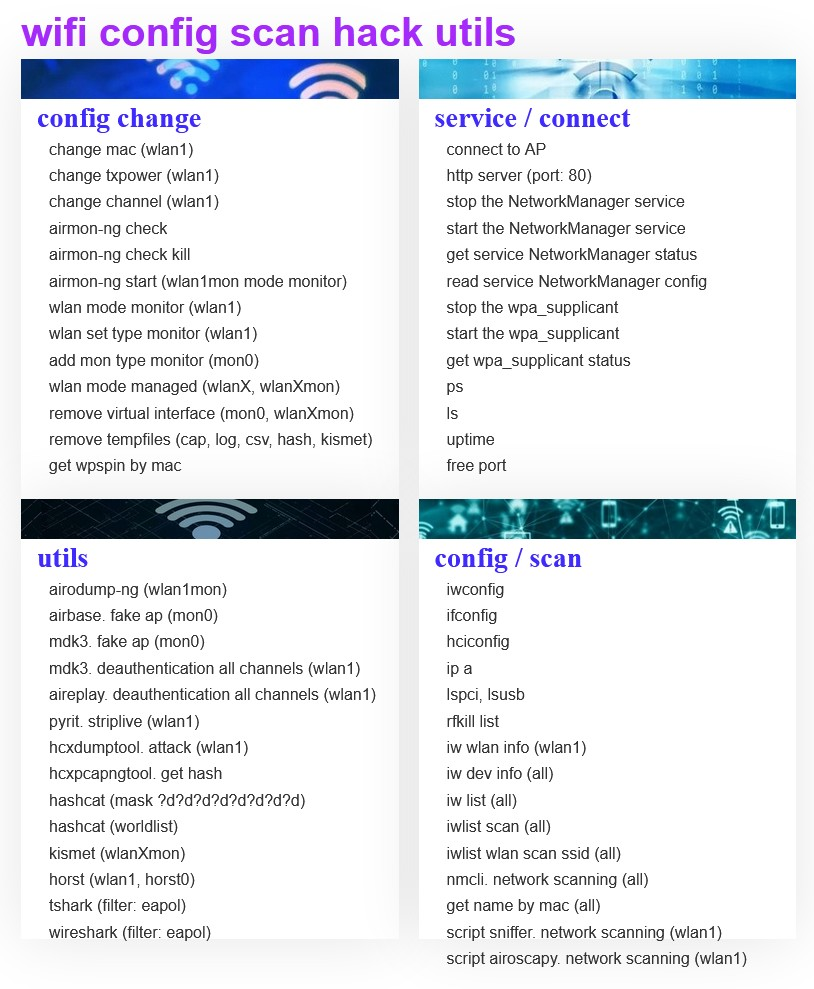
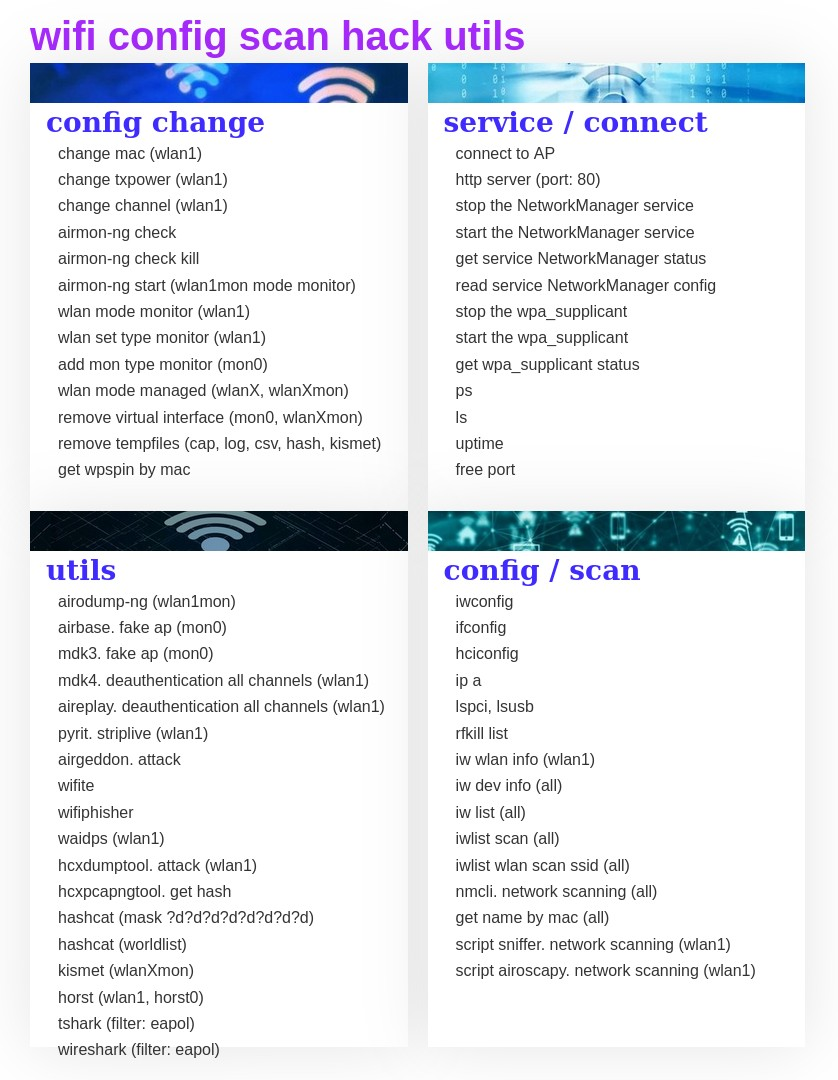
added utils

Changed region(s): [[0.0, 0.0, 0.9828, 1.0]]

diff --git a/template/index.html b/template/index.html
@@ -127,13 +127,25 @@
             <a href="/mdk3_fake_ap" target="_blank">mdk3. fake ap (mon0)</a>
           </li>
           <li class="items-list">
-            <a href="/mdk3_deauthentication_all_channel" target="_blank">mdk3. deauthentication all channels (wlan1)</a>
+            <a href="/mdk4_deauthentication_all_channel" target="_blank">mdk4. deauthentication all channels (wlan1)</a>
           </li>
           <li class="items-list">
             <a href="/aireplay_deauthentication_all_channel" target="_blank">aireplay. deauthentication all channels (wlan1)</a>
           </li>
           <li class="items-list">
             <a href="/pyrit_striplive" target="_blank">pyrit. striplive (wlan1)</a>
+          </li>
+          <li class="items-list">
+            <a href="/airgeddon_attack" target="_blank">airgeddon. attack</a>
+          </li>
+          <li class="items-list">
+            <a href="/wifite-reaver" target="_blank">wifite</a>
+          </li>
+          <li class="items-list">
+            <a href="/wifiphisher" target="_blank">wifiphisher</a>
+          </li>
+          <li class="items-list">
+            <a href="/waidps" target="_blank">waidps (wlan1)</a>
           </li>
           <li class="items-list">
             <a href="/hcxdumptool_attack" target="_blank">hcxdumptool. attack (wlan1)</a>

diff --git a/template/css/style.css b/template/css/style.css
@@ -161,7 +161,7 @@ li:last-child {
   vertical-align: top;
   margin-right: 25px;
   width: 472px;
-  height: 550px;
+  height: 560px;
   filter: drop-shadow(0px 0px 40px rgba(0, 0, 0, 0.1));
   background-color: #fff;
   background-position: top;
@@ -176,7 +176,7 @@ li:last-child {
   display: inline-block;
   vertical-align: top;
   width: 472px;
-  height: 550px;
+  height: 560px;
   filter: drop-shadow(0px 0px 40px rgba(0, 0, 0, 0.1));
   background-color: #fff;
   background-position: top;
@@ -192,7 +192,7 @@ li:last-child {
   vertical-align: top;
   margin-right: 25px;
   width: 472px;
-  height: 550px;
+  height: 670px;
   filter: drop-shadow(0px 0px 40px rgba(0, 0, 0, 0.1));
   background-color: #fff;
   background-position: top;
@@ -207,7 +207,7 @@ li:last-child {
   display: inline-block;
   vertical-align: top;
   width: 472px;
-  height: 550px;
+  height: 670px;
   filter: drop-shadow(0px 0px 40px rgba(0, 0, 0, 0.1));
   background-color: #fff;
   background-position: top;

diff --git a/functions/manager.py b/functions/manager.py
@@ -12,11 +12,12 @@ __all__ = ['network_manager_stop', 'network_manager_read_conf', 'change_mac',
            'set_wpa_supplicant_stop', 'set_wpa_supplicant_start', 'set_sniffer',
            'get_wpa_supplicant_status', 'set_hashcat_mask', 'get_mac_to_wpspin',
            'get_name_to_mac', 'get_iwlist_wlan_scan_ssid', 'set_mdk3_fake_ap',
-           'set_airbase_fake_ap', 'set_mdk3_deauthentication', 'change_channel',
+           'set_airbase_fake_ap', 'set_mdk4_deauthentication', 'change_channel',
            'set_aireplay_deauthentication', 'set_pyrit_striplive', 'set_horst',
            'set_kismet', 'set_hashcat_dict', 'set_airoscapy', 'get_hciconfig',
            'start_http_server', 'set_del_tempfiles', 'get_rfkill_list',
-           'get_lspci_lsusb', 'get_ip', 'set_tshark', 'set_wireshark']
+           'get_lspci_lsusb', 'get_ip', 'set_tshark', 'set_wireshark',
+           'set_airgeddon', 'set_wifite', 'set_wifiphisher', 'set_waidps']
 
 
 def model(cmd, arg):
@@ -207,9 +208,8 @@ def set_mdk3_fake_ap():
     return f"<h2><font color='black'><pre>{result}</pre></font></h2>"
 
 
-def set_mdk3_deauthentication():
-    # cmd = f"xterm -e mdk3 {WLAN} d -c 1"
-    cmd = f"xterm -e mdk3 {WLAN} d"
+def set_mdk4_deauthentication():
+    cmd = f"xterm -e mdk3 {WLAN} d -c"
     model(cmd=cmd, arg='')
     return "<h2><font color='red'>FINISH</font></h2>"
 
@@ -221,10 +221,35 @@ def set_aireplay_deauthentication():
     return "<h2><font color='red'>FINISH</font></h2>"
 
 
+def set_wifite():
+    cmd = "gnome-terminal --tab -- bash -c 'wifite --reaver'"
+    subprocess.run(cmd, shell=True)
+    return "<h2><font color='red'>FINISH</font></h2>"
+
+
+def set_wifiphisher():
+    cmd = "gnome-terminal --tab -- bash -c 'wifiphisher'"
+    subprocess.run(cmd, shell=True)
+    return "<h2><font color='red'>FINISH</font></h2>"
+
+
+def set_waidps():
+    set_wlan_mode_monitor()
+    cmd = f"gnome-terminal --tab -- bash -c 'python2 {WAIDPS} -i {WLAN}'"
+    subprocess.run(cmd, shell=True)
+    return "<h2><font color='red'>FINISH</font></h2>"
+
+
 def set_pyrit_striplive():
     set_mode_managed()
     set_wlan_mode_monitor()
     cmd = f"gnome-terminal --tab -- bash -c 'pyrit -r {WLAN} -o {DUMP} stripLive'"
+    subprocess.run(cmd, shell=True)
+    return "<h2><font color='red'>FINISH</font></h2>"
+
+
+def set_airgeddon():
+    cmd = "gnome-terminal --tab -- bash -c 'airgeddon'"
     subprocess.run(cmd, shell=True)
     return "<h2><font color='red'>FINISH</font></h2>"
 

diff --git a/app.py b/app.py
@@ -126,9 +126,9 @@ def mdk3_fake_ap() -> str:
     return set_mdk3_fake_ap()
 
 
-@app.route('/mdk3_deauthentication_all_channel')
-def mdk3_deauthentication() -> str:
-    return set_mdk3_deauthentication()
+@app.route('/mdk4_deauthentication_all_channel')
+def mdk4_deauthentication() -> str:
+    return set_mdk4_deauthentication()
 
 
 @app.route('/aireplay_deauthentication_all_channel')
@@ -136,9 +136,29 @@ def aireplay_deauthentication() -> str:
     return set_aireplay_deauthentication()
 
 
+@app.route('/wifite-reaver')
+def wifite() -> str:
+    return set_wifite()
+
+
+@app.route('/wifiphisher')
+def wifiphisher() -> str:
+    return set_wifiphisher()
+
+
+@app.route('/waidps')
+def waidps() -> str:
+    return set_waidps()
+
+
 @app.route('/pyrit_striplive')
 def pyrit_striplive() -> str:
     return set_pyrit_striplive()
+
+
+@app.route('/airgeddon_attack')
+def airgeddon() -> str:
+    return set_airgeddon()
 
 
 @app.route('/hcxdumptool_attack')
